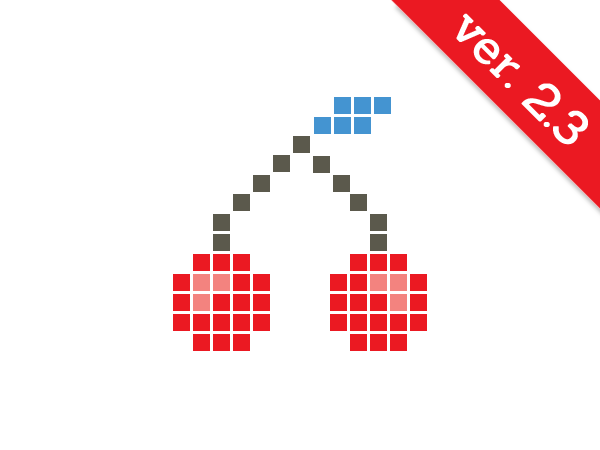
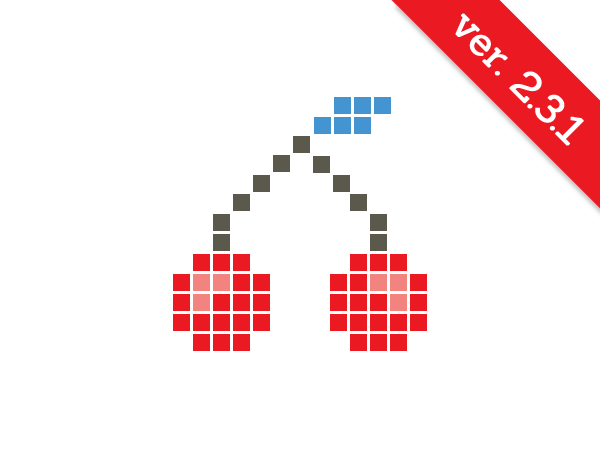
change version in stylesheet and screenshot

Changed region(s): [[0.84, 0.1556, 0.99, 0.3422], [0.75, 0.0311, 0.87, 0.1867]]

diff --git a/style.css b/style.css
@@ -4,7 +4,7 @@
 	Description: A theme for Wordpress 3.6.x
 	Author: Template_Help.com
 	Author URI: http://info.template-help.com/help/
-	Version: 2.3
+	Version: 2.3.1
 	Tags: dark, light, white, black, gray, left-sidebar, right-sidebar, fixed-width, flexible-width, custom-menu, editor-style, featured-images, full-width-template, post-formats, rtl-language-support, sticky-post, theme-options, translation-ready
 	License:
 	License URI: http://
